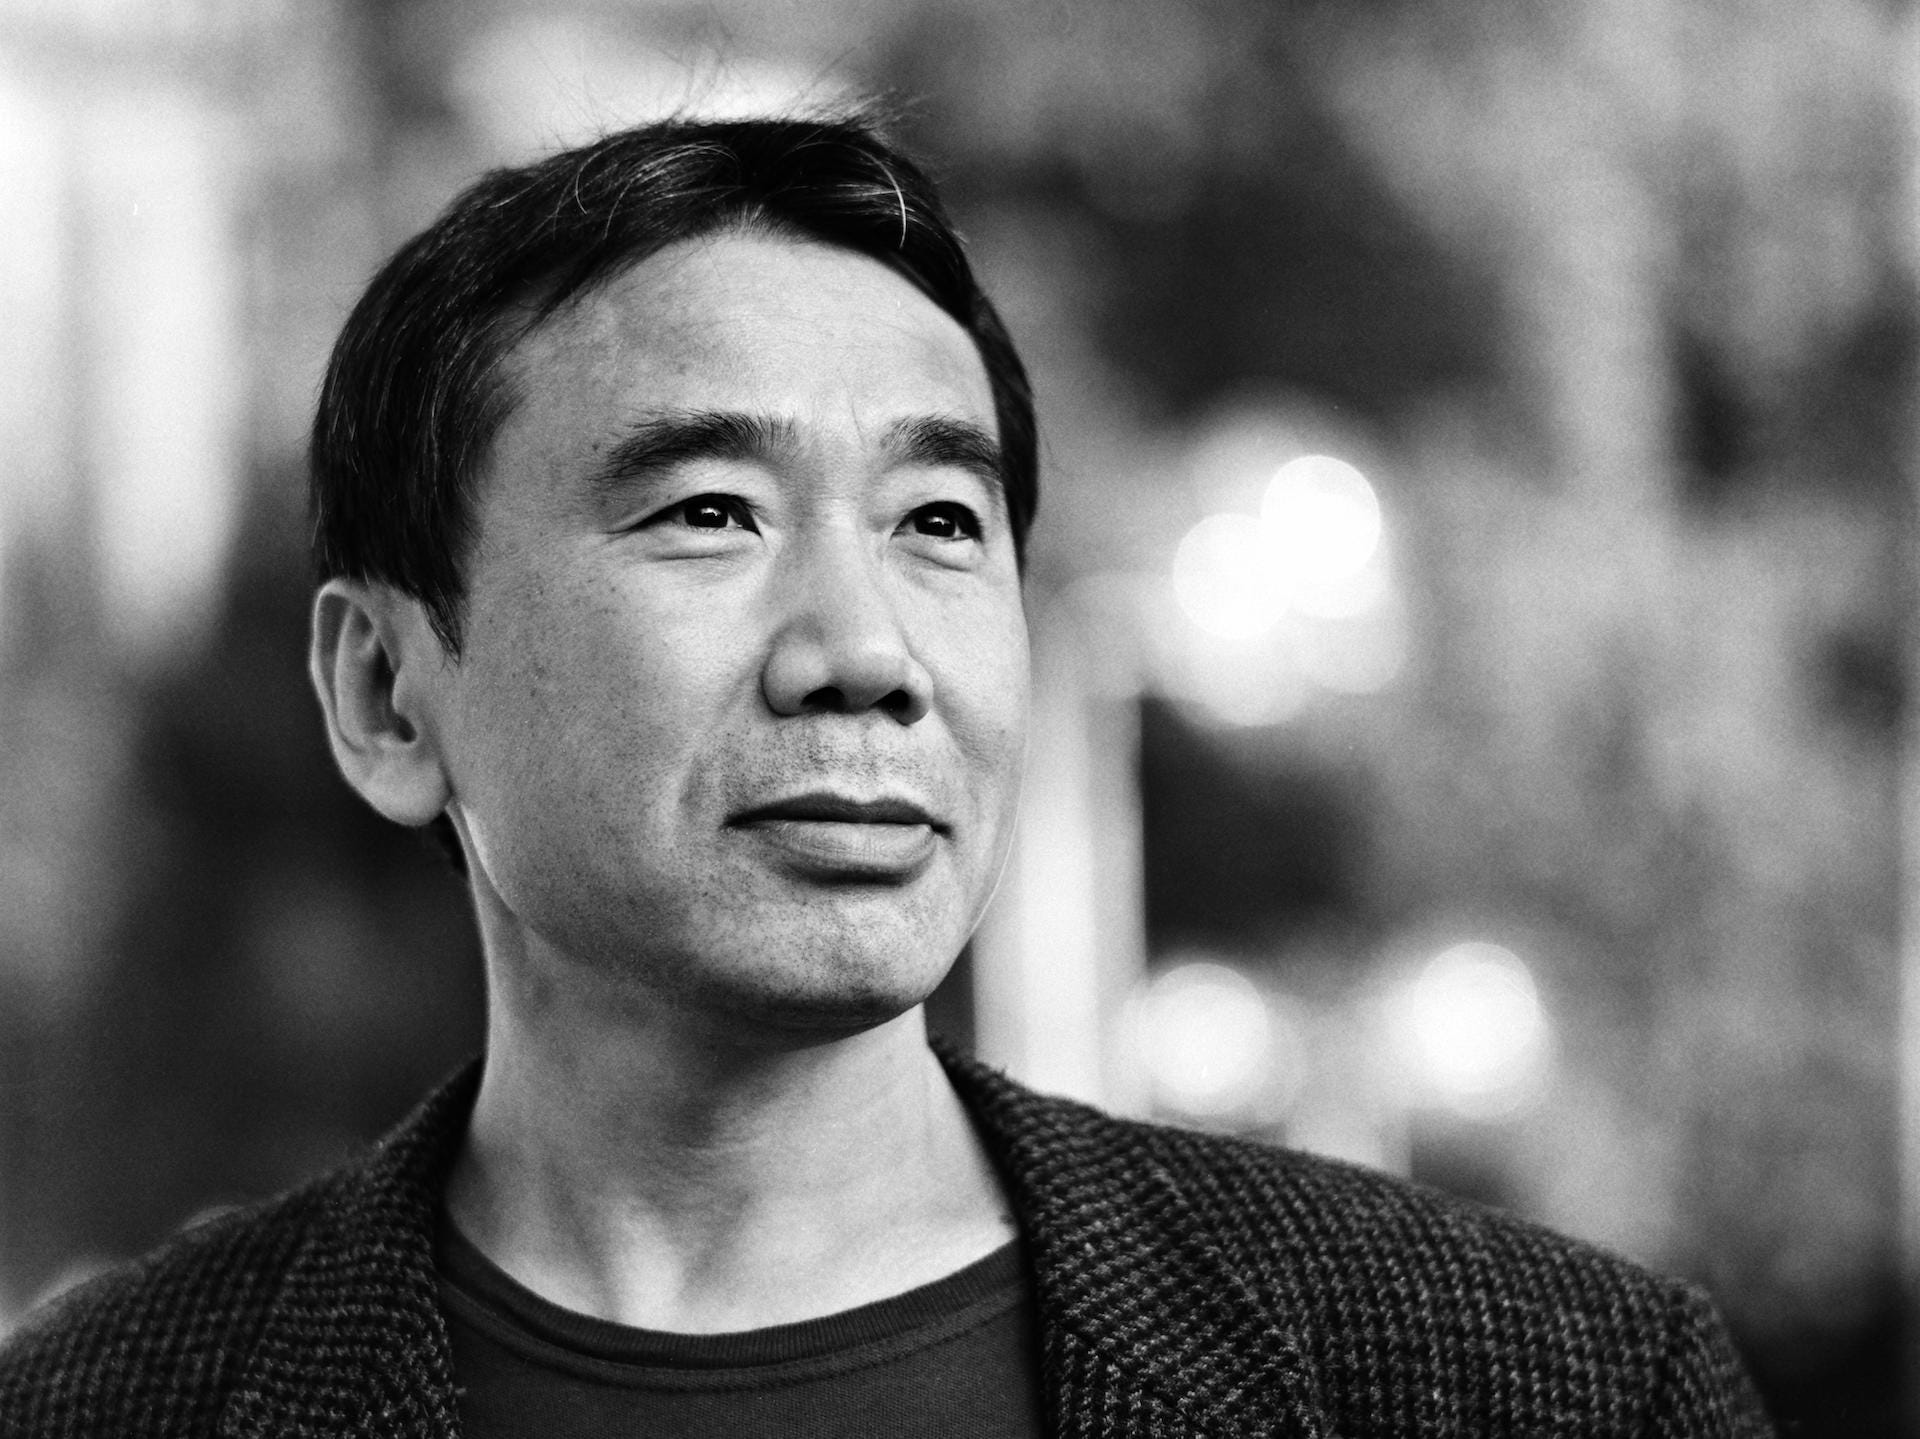
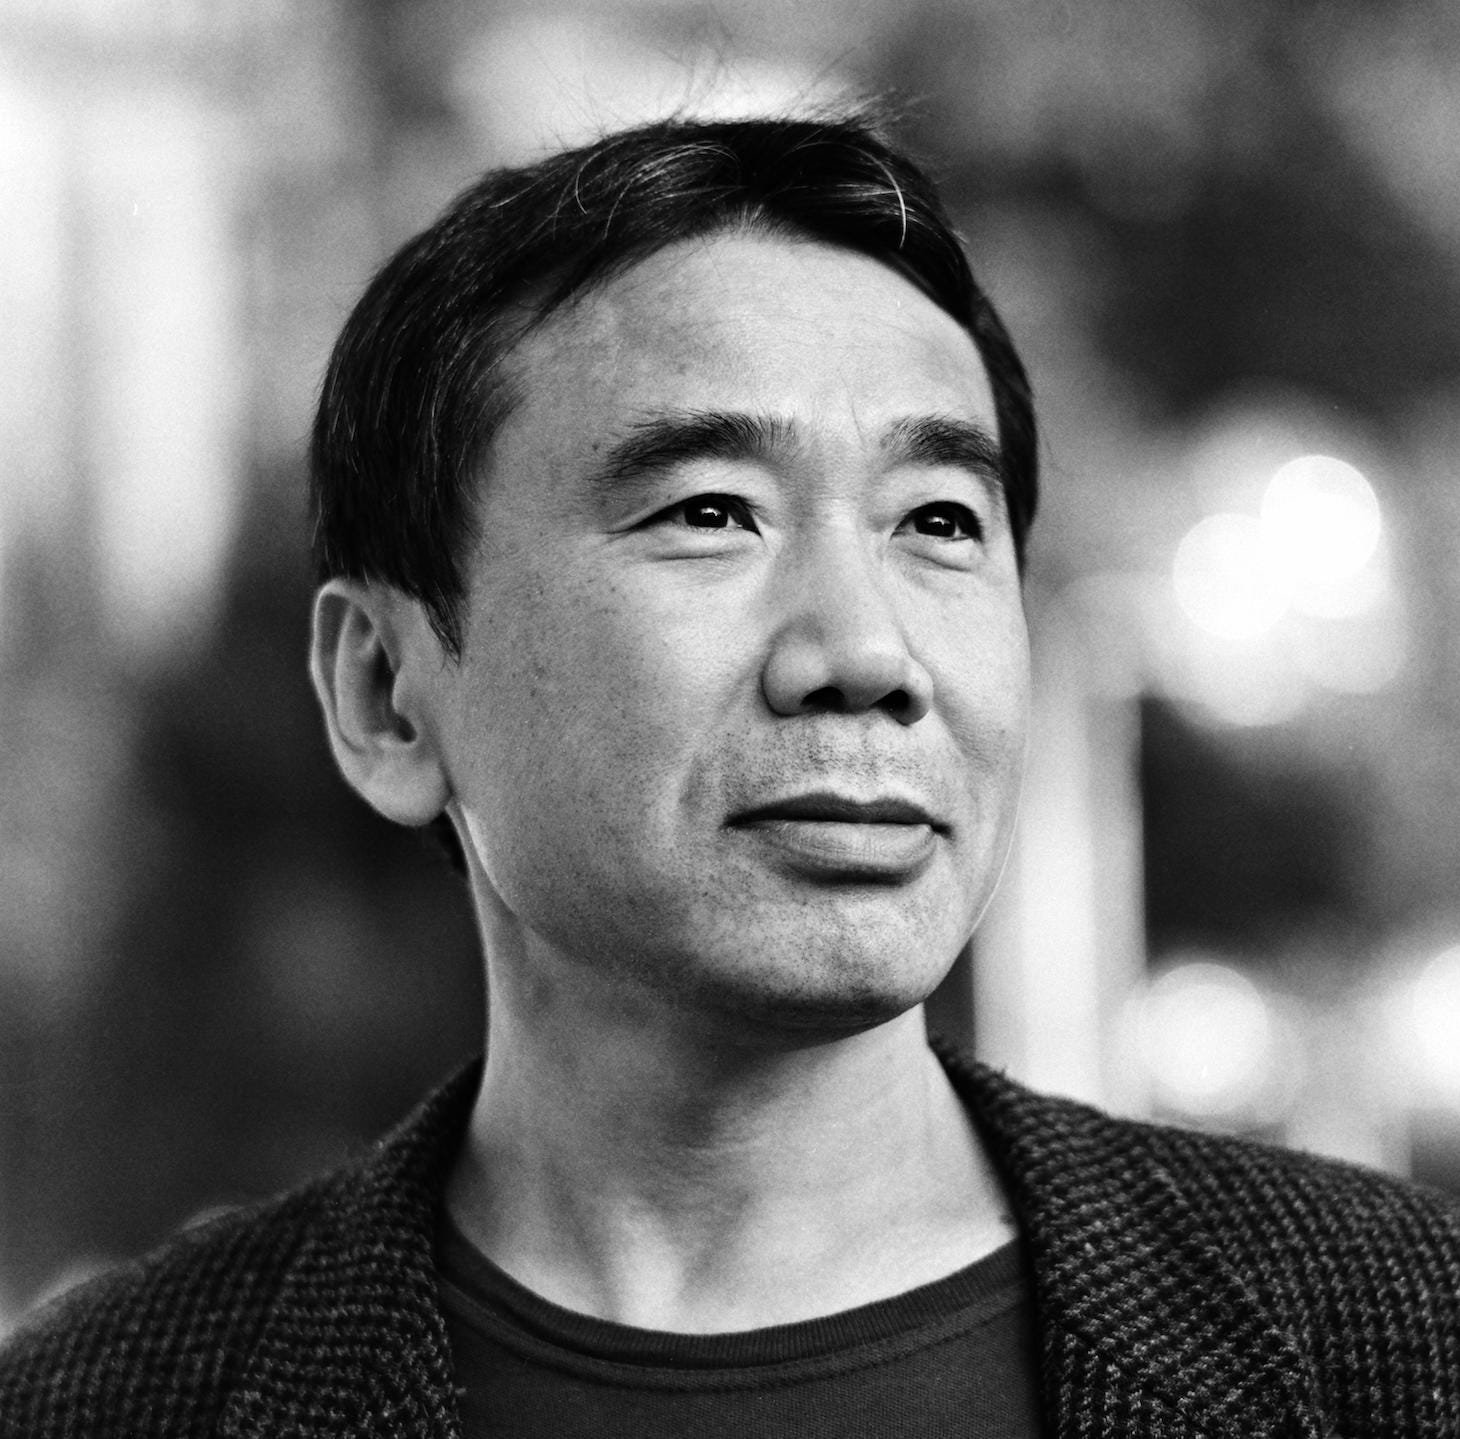
make my profile prettier

diff --git a/index.html b/index.html
@@ -4,7 +4,7 @@
 <head>
   <meta charset="UTF-8">
   <meta name="viewport" content="width=device-width, initial-scale=1.0">
-  <title>Sakamoto Ryoma</title>
+  <title>Haruki Murakami</title>
   <link rel="stylesheet" href="style.css">
   <link href="https://fonts.googleapis.com/css2?family=Roboto:wght@400;700&display=swap" rel="stylesheet">
   <link rel="stylesheet" href="https://use.fontawesome.com/releases/v6.1.2/css/all.css">
@@ -13,20 +13,30 @@
 <body>
   <div class="container text-center">
     <div card="card1" class="card-white text-center">
-      <h1>Sakamoto Ryōma</h1>
+      <h1>Haruki Murakami</h1>
       <img class="img-circle" id="profile-picture" src="images/haruki-murakami.jpg">
-      <p>Sakamoto Ryōma (3 January 1836 – 10 December 1867) was a Japanese samurai, a shishi and
-        influential
-        figure of the Bakumatsu, and establishment of the Empire of Japan in the late Edo period.</p>
-      <a class="btn-red" href="https://en.wikipedia.org/wiki/Sakamoto_Ry%C5%8Dma" target="_blank">Learn
+      <p>Haruki Murakami is a Japanese writer. His novels, essays,
+        and short stories have been best-sellers in Japan and internationally, with his work translated into 50
+        languages and having sold millions of copies outside Japan.</p>
+      <a class="btn-red" href="https://en.wikipedia.org/wiki/Haruki_Murakami" target="_blank">Learn
         more</a>
     </div>
+    <div card="card2" class="card-white text-center">
+      <h1>Norwegian Wood</h1>
+      <p>Norwegian Wood is a 1987 novel by Japanese author Haruki Murakami The novel is a
+        nostalgic story of loss. It is told from the first-person perspective of Toru Watanabe, who looks back on his
+        days as a college student living in Tokyo.</p>
+      <a class="btn-red" href="https://www.amazon.com/Norwegian-Wood-Haruki-Murakami/dp/0375704027" target="_blank">
+        Buy on Amazon</a>
+    </div>
     <div card="social media links" class="card-white text-center">
-      <h2>Follow Sakamoto Ryōma</h2>
+      <h2>Follow Haruki Murakami</h2>
       <ul class="list-inline">
-        <li><a href="https://www.facebook.com" target="_blank"><i class="icon fa-brands fa-facebook"></i></a></li>
-        <li><a href="https://www.instagram.com" target="_blank"><i class="icon fa-brands fa-instagram"></i></a></li>
-        <li><a href="https://www.x.com" target="_blank"><i class="icon fa-brands fa-twitter"></i></a></li>
+        <li><a href="https://www.facebook.com/harukimurakamiauthor/" target="_blank"><i
+              class="icon fa-brands fa-facebook"></i></a></li>
+        <li><a
+            href="https://www.instagram.com/accounts/login/?next=https%3A%2F%2Fwww.instagram.com%2Fharuki_murakami_%2F&is_from_rle"
+            target="_blank"><i class="icon fa-brands fa-instagram"></i></a></li>
       </ul>
     </div>
   </div>
